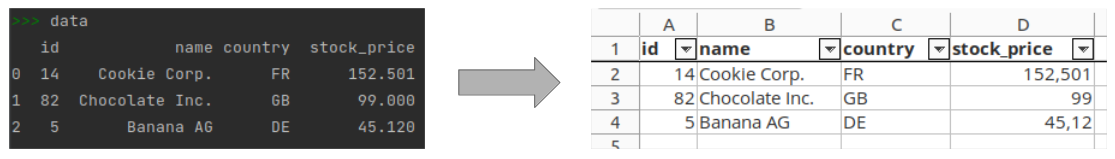
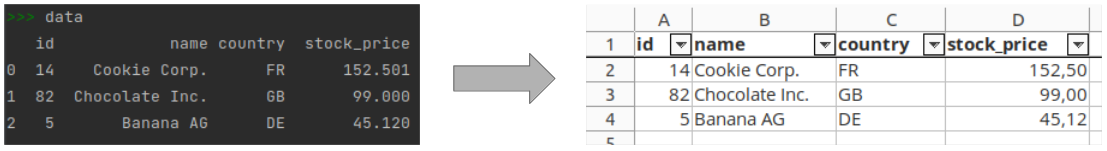
#7 Text wrap (linebreaks) in script - not the final solution.

diff --git a/create_excel_report.py b/create_excel_report.py
@@ -12,6 +12,7 @@ CONFIG = {
         "font_color": "#2b2b2b",
     },
     "column_widths": {0: 6, 1: 16, 2: 12, 3: 16},
+    "columns_2_decimal_places": [3],
 }
 
 # -------------------------------------------------------------------------------------------------------------------- #
@@ -41,6 +42,14 @@ sheet_report.set_column(first_col=0, last_col=last_col, cell_format=default_text
 column_header_format = workbook.add_format(CONFIG["column_header_format"])
 for col_num, col_name in enumerate(data.columns.values):
     sheet_report.write(0, col_num, col_name, column_header_format)
+
+
+# Format number columns with 2 decimal places
+num_format_2_decimals = CONFIG["text_format"].copy()
+num_format_2_decimals["num_format"] = 0x02
+num_format = workbook.add_format(num_format_2_decimals)
+for col_number in CONFIG["columns_2_decimal_places"]:
+    sheet_report.set_column(first_col=col_number, last_col=col_number, cell_format=num_format)
 
 # Freeze header row
 sheet_report.freeze_panes(row=1, col=0)

diff --git a/README.md b/README.md
@@ -27,6 +27,7 @@ You can configure the Excel file's appearance in the `CONFIG` object at the top 
 - `column_widths`: widths of the columns in the Excel file.
   It's a dictionary where the keys are the column numbers (starting from 0)
   and the values are the respective width.
+- `columns_2_decimal_places`: numbers in these columns are always displayed with two decimal places.
 
 
 ## Extensions
